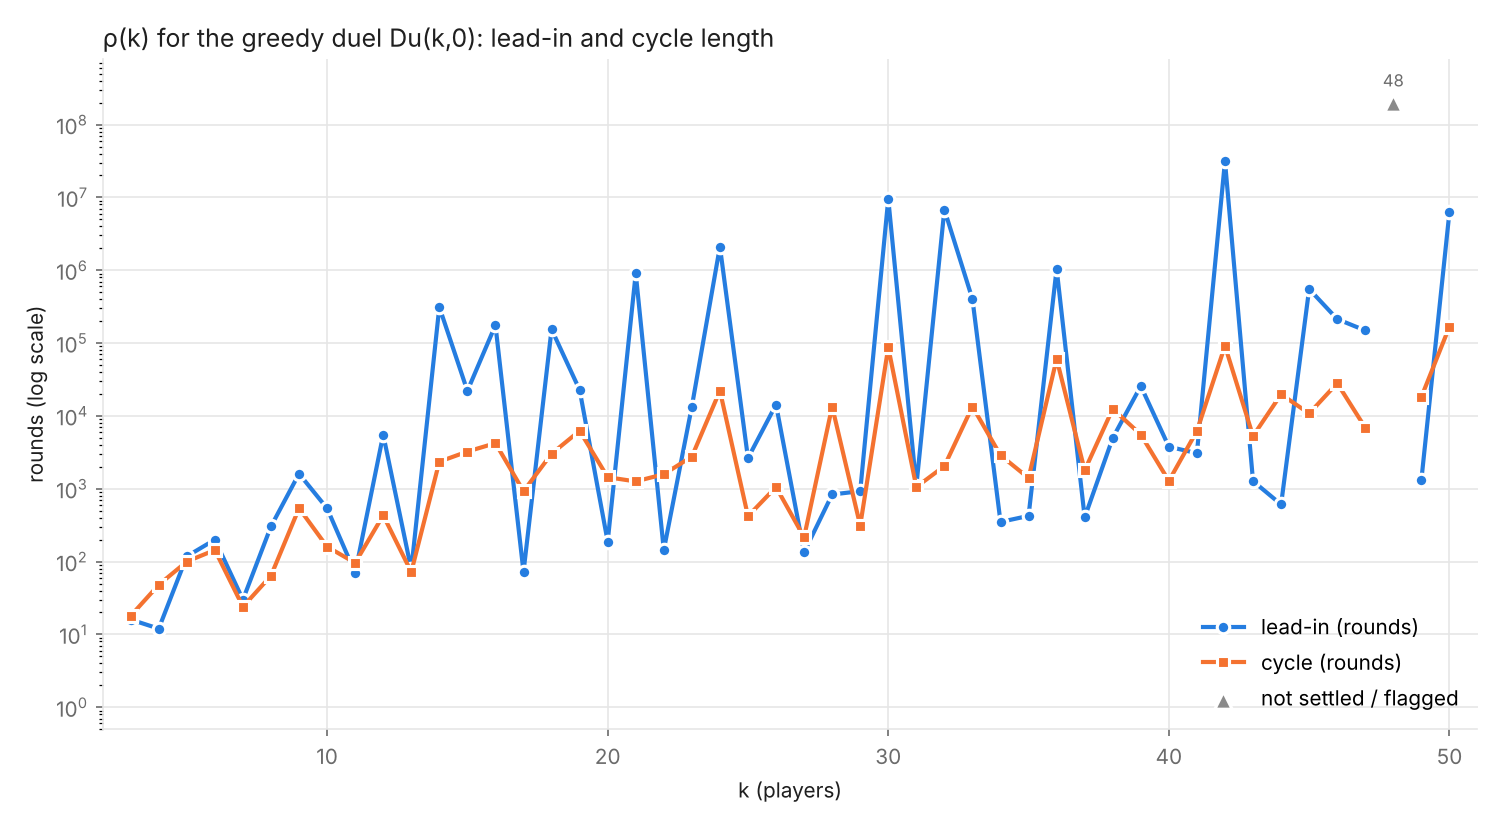
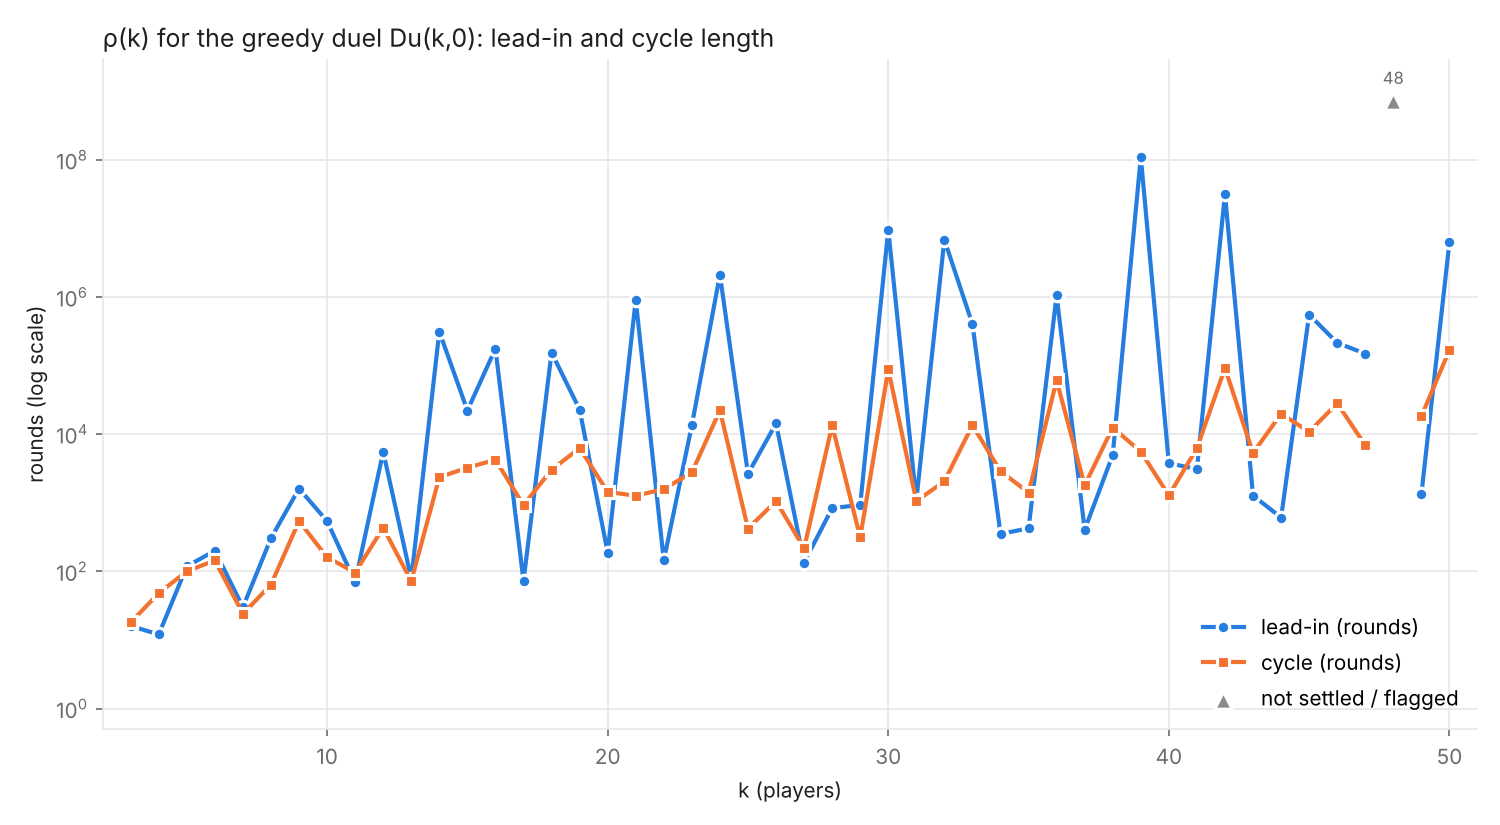
k=39: false loop replaced by certified-permanent loop (4253556902, 216216)
Certificate predicted the 1000-repeat 'settled' loop (1002830, 216216) breaks at pick
4253557401 after 19668 repeats; engine confirmed exactly. New loop certified permanent,
seen for 31202 repeats. run.py plots certified rows.

Claude-Session: https://claude.ai/code/session_01HcZ87u1C7N7K594u1YXShF

diff --git a/run.py b/run.py
@@ -63,15 +63,16 @@ def write_csv(rows, path):
 
 
 def draw(rows, path, kmin, kmax):
-    ok = [rows[k] for k in sorted(rows) if rows[k]["status"] == "settled"]
-    bad = [rows[k] for k in sorted(rows) if rows[k]["status"] != "settled"]
+    is_good = lambda r: r["status"] == "settled" or r["status"].startswith("certified permanent")
+    ok = [rows[k] for k in sorted(rows) if is_good(rows[k])]
+    bad = [rows[k] for k in sorted(rows) if not is_good(rows[k])]
     fig, ax = plt.subplots(figsize=(10, 5.5), dpi=150)
     ink, muted, grid = "#1f1f1f", "#6b6b6b", "#e6e6e6"
     blue, orange, gray = "#257de0", "#f47230", "#8a8a8a"
     if ok:
         # NaN at unsettled k so the lines break there instead of bridging the gap
         ks = sorted(rows)
-        good = lambda k: rows[k]["status"] == "settled"
+        good = lambda k: is_good(rows[k])
         lead = [max(int(rows[k]["lead_rounds"]), 0.5) if good(k) else float("nan") for k in ks]
         cyc = [float(Fraction(str(rows[k]["cycle_rounds"]))) if good(k) else float("nan") for k in ks]
         ax.plot(ks, lead, "-o", color=blue, lw=2, ms=6, mec="white", mew=1.5, label="lead-in (rounds)")

diff --git a/README.md b/README.md
@@ -41,6 +41,11 @@ the exact state at its start (dumped by `duel` with STATE_AT).
   gap is used up. All pairs permanent proves the loop never breaks.
 - Checked against every false loop seen so far (k=15, 16, 24, 48: breaks after 13 to
   618 repeats): the predicted break pick equals the engine's BREAK pick every time.
+- On all settled loops: 46 permanent. k=39 (1002830, 216216) had passed the 1000-repeat
+  rule but the certificate predicted a break after 19668 repeats at pick 4253557401,
+  which the engine confirmed exactly. Its next loop (4253556902, 216216) is certified
+  permanent (engine saw 31202 repeats); results.csv marks it "certified permanent"
+  because the 10 (mu + lambda) rule would need 4.7e10 picks, past 256-bit range.
 
     python3 certify.py 15 30591 8100     # false loop: breaks after about 25 repeats, pick 239670
     python3 certify.py --settled         # every settled k -> certificates.csv
